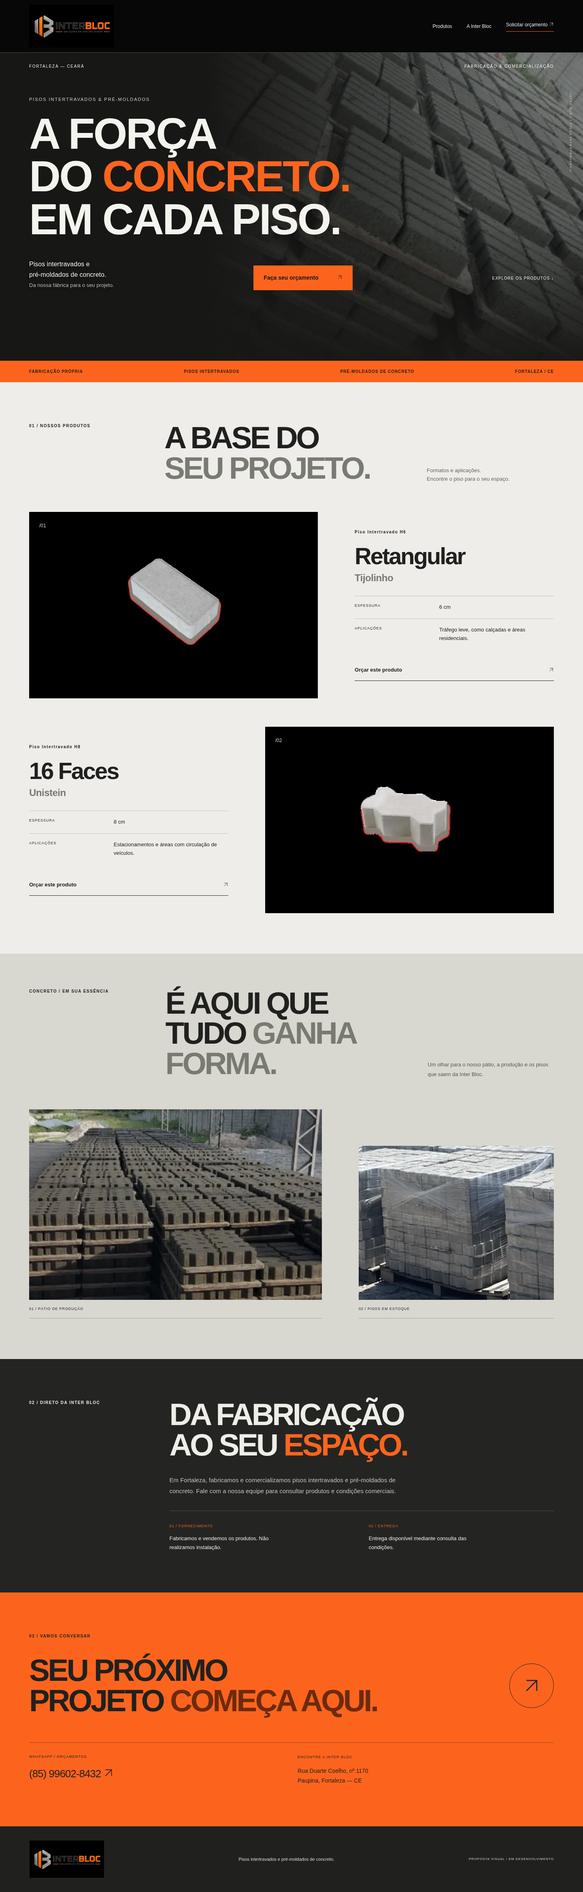
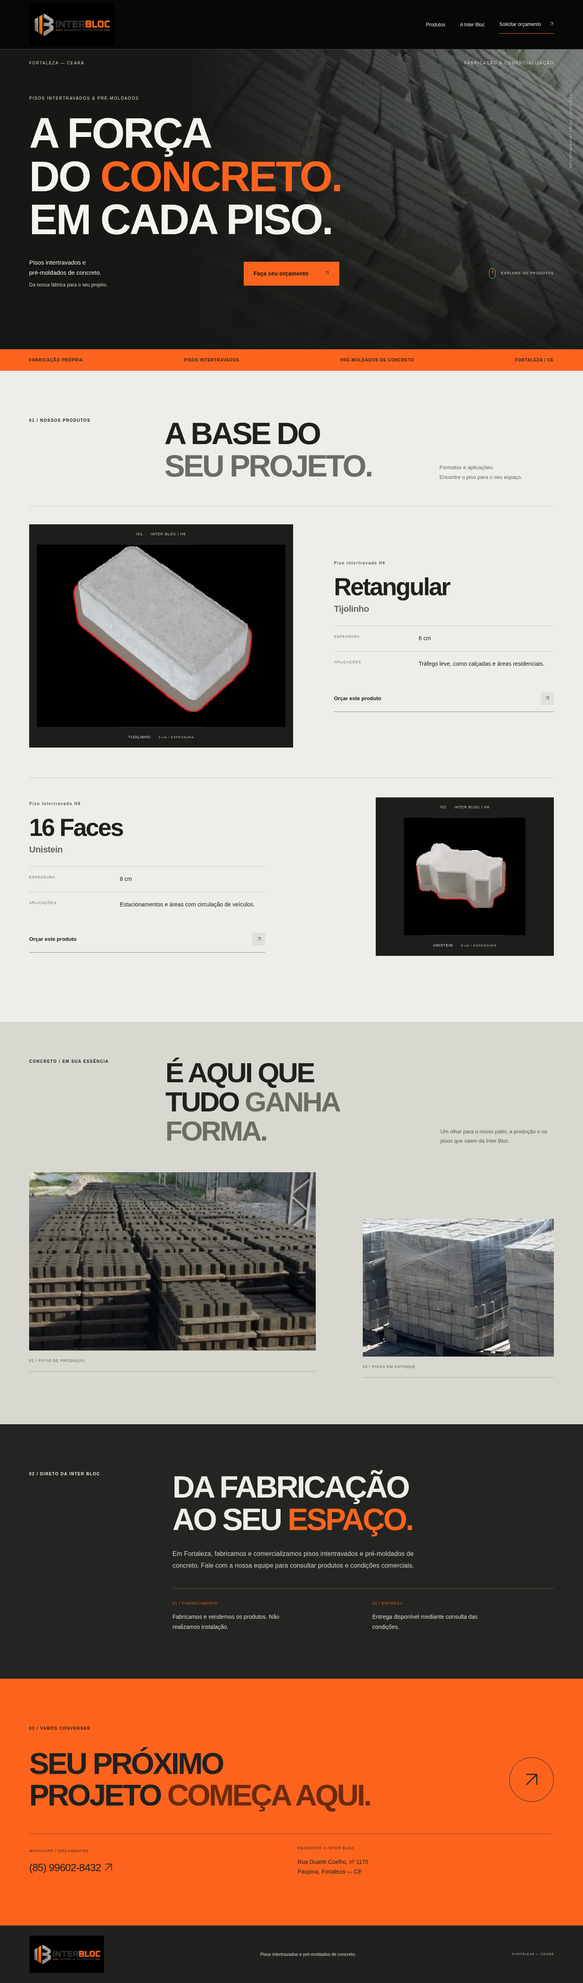
feat: refine Inter Bloc catalog and accessible scroll animations

Changed region(s): [[0.0, 0.0, 1.0, 1.0], [0.4688, 0.0, 0.5312, 0.0311]]

diff --git a/src/app/globals.css b/src/app/globals.css
@@ -63,10 +63,12 @@ h1 { font-family: Impact, 'Arial Narrow', Arial, sans-serif; font-size: clamp(64
 figcaption { padding: 16px 0; border-bottom: 1px solid #aaa99f; font-size: 9px; letter-spacing: .1em; }
 @media (prefers-reduced-motion: no-preference) {
   .hero-photo { animation: photo-enter 1.6s ease-out both; }
-  .hero-kicker,h1,.hero-bottom { animation: title-enter .9s ease-out both; }
-  h1 { animation-delay: .1s; }.hero-bottom { animation-delay: .2s; }
+  .hero-top,.hero-kicker,h1,.hero-description,.hero-bottom .button,.explore { animation: title-enter .85s cubic-bezier(.2,.65,.3,1) both; }
+  .hero-top { animation-delay: .12s; }.hero-kicker { animation-delay: .22s; }
+  h1 { animation-delay: .34s; }.hero-description { animation-delay: .52s; }
+  .hero-bottom .button { animation-delay: .68s; }.explore { animation-delay: .8s; }
   .product-photo,.factory-photo img { transition: transform .7s ease; }
-  .product-visual:hover .product-photo,.factory-photo:hover img { transform: scale(1.035); }
+
   @keyframes photo-enter { from { opacity: .4; transform: scale(1.06); } to { opacity: 1; transform: scale(1); } }
   @keyframes title-enter { from { opacity: 0; transform: translateY(20px); } to { opacity: 1; transform: translateY(0); } }
 }
@@ -79,4 +81,160 @@ figcaption { padding: 16px 0; border-bottom: 1px solid #aaa99f; font-size: 9px; 
   .hero-bottom .button { justify-self: start; }.product-visual { min-height: 350px; }.product-photo { height: 350px; padding: 25px; }.product-photo-h8 { width: 300px; }
   .factory-intro,.factory-grid { grid-template-columns: 1fr; }.factory-grid { margin-top: 40px; gap: 35px; }
   .factory-grid figure:nth-child(2) { padding-top: 0; }.factory-photo,.factory-wide .factory-photo { height: 360px; }
+}
+
+/* Editorial refinement: the existing sections and official assets are retained. */
+:root { --ease-out: cubic-bezier(.2,.65,.3,1); }
+html { scroll-padding-top: 32px; }
+.site-header { padding-block: 8px; }
+.site-header nav a { min-height: 44px; display: inline-flex; align-items: center; gap: 20px; position: relative; }
+.nav-quote { padding-bottom: 0; }
+.site-header nav a:not(.nav-quote)::after { content: ''; position: absolute; bottom: 5px; left: 0; width: 100%; height: 1px; background: var(--orange); transform: scaleX(0); transform-origin: left; }
+a:focus-visible { border-radius: 1px; }
+.site-header nav a:hover { text-decoration: none; }
+.hero { min-height: 740px; padding-bottom: 54px; }
+.hero-kicker { margin-top: clamp(44px,5vw,72px); color: #e3e1d8; font-size: 10px; }
+.hero h1 { margin-block: 26px 40px; font-size: clamp(64px,7.3vw,112px); line-height: 1.015; }
+.hero-art { inset-inline-start: 32%; }
+.hero-photo { filter: saturate(.65) brightness(.82); }
+.hero-art::after { background: linear-gradient(90deg,#171816 0%,#171816b5 28%,#17181630 80%),linear-gradient(0deg,#171816e8,transparent 65%); }
+.hero-top { color: #d9d7ce; }
+.hero-bottom { display: grid; grid-template-columns: 1fr auto 1fr; align-items: center; gap: 40px; margin-top: 0; }
+.hero-bottom p { font-size: 15px; line-height: 1.65; }
+.hero-bottom p span { color: #d5d4cb; font-size: 12px; display: inline-block; margin-top: 8px; }
+.button { min-height: 56px; padding: 19px 24px; gap: 38px; }
+.button:hover { text-decoration: none; }
+.explore { display: inline-flex; align-items: center; justify-self: end; gap: 14px; padding: 14px 0; min-height: 44px; font-size: 9px; color: #deddd4; }
+.scroll-indicator { display: block; width: 16px; height: 26px; border: 1px solid #a8a99e; border-radius: 12px; position: relative; }
+.scroll-indicator::after { content: ''; position: absolute; top: 5px; left: 6px; height: 6px; width: 2px; background: var(--orange); }
+.section-pad { padding-block: clamp(72px,8vw,120px); }
+.section-heading { grid-template-columns: 1fr 2.1fr .9fr; align-items: start; margin-bottom: 60px; }
+.section-heading>p:last-child { line-height: 1.8; }
+.eyebrow { font-size: 10px; line-height: 1.6; }
+h2 { line-height: 1.04; letter-spacing: -.055em; }
+h2 span { color: #6b6d64; }
+.product { grid-template-columns: 1.2fr 1fr; gap: clamp(40px,7vw,110px); padding-block: 44px; margin-top: 0; border-top: 1px solid #c7c8bf; }
+.product+.product { margin-top: 30px; }
+.product:nth-of-type(even) { grid-template-columns: 1fr 1.05fr; }
+.product-visual { background: #1d1e1b; min-height: 0; display: block; color: #d9d9cf; }
+.visual-heading,.visual-caption { display: flex; align-items: center; justify-content: space-between; gap: 20px; padding: 18px 22px; font-size: 9px; line-height: 1.5; letter-spacing: .1em; }
+.visual-heading { border-bottom: 1px solid #383a32; }
+.visual-caption { border-top: 1px solid #383a32; }
+.visual-caption span:first-child { color: #eee; text-transform: uppercase; }
+.visual-caption span:last-child { color: #c6c8bc; font-size: 8px; }
+.product-stage { height: 450px; display: flex; justify-content: center; align-items: center; overflow: hidden; background: #000; }
+.product-photo { display: block; max-width: none; padding: 0; object-fit: contain; flex-shrink: 0; }
+.product-photo-h6 { width: min(128%,768px); height: auto; }
+.product-photo-h8 { width: 300px; height: 300px; }
+.product-visual-h8 { max-width: 440px; justify-self: end; width: 100%; }
+.product-visual-h8 .product-stage { height: 290px; }
+.product-info { padding-block: 12px; }
+.product-info .eyebrow { color: #5b5f52; font-size: 10px; }
+.product-info h3 { margin-block: 20px 30px; font-size: clamp(42px,4.2vw,64px); }
+.product-info h3 span { margin-top: 14px; font-size: 22px; color: #686b61; }
+dl>div { grid-template-columns: .85fr 1.5fr; padding-block: 19px; border-color: #c7c8bf; }
+dt { font-size: 9px; color: #62665c; line-height: 1.7; }
+dd { font-size: 14px; line-height: 1.7; }
+.text-link { min-height: 54px; align-items: center; margin-top: 22px; padding: 16px 0; font-size: 13px; border-bottom-color: #84877b; }
+.text-link>span { display: grid; place-items: center; width: 32px; height: 32px; background: #e0e1d8; }
+.text-link:hover { text-decoration: none; border-bottom-color: #20211f; }
+.factory { padding-top: 90px; }
+.factory-intro { grid-template-columns: 1fr 2.1fr .9fr; }
+.factory-intro h2 { font-size: clamp(38px,4.8vw,72px); }
+.factory-grid { grid-template-columns: 1.2fr .8fr; gap: 9%; margin-top: 65px; align-items: start; }
+.factory-grid figure:nth-child(2) { padding-top: 115px; }
+.factory-wide .factory-photo { height: clamp(320px,32vw,440px); }
+.factory-photo { height: clamp(280px,24vw,340px); }
+.factory-photo img { object-position: center 55%; }
+figcaption { display: flex; align-items: center; min-height: 52px; padding: 17px 0; font-size: 9px; letter-spacing: .12em; color: #4b4f43; }
+.about { grid-template-columns: 1fr 3fr; gap: 40px; }
+.about h2 { max-width: 860px; }
+.about>div>p { font-size: 16px; max-width: 600px; margin: 32px 0 42px; color: #d0d1c5; }
+.conditions { gap: 45px; padding-top: 28px; border-color: #53564a; }
+.conditions p { max-width: 300px; line-height: 1.8; font-size: 14px; color: #dbdcd3; }
+.conditions span { font-size: 9px; margin-bottom: 12px; letter-spacing: .14em; }
+.contact-heading { align-items: center; gap: 35px; }
+.contact h2 { max-width: 980px; font-size: clamp(40px,5.15vw,78px); }
+.contact-details { margin-top: 56px; padding-top: 28px; }
+.contact-details a { display: block; width: fit-content; padding-block: 8px; min-height: 44px; }
+.contact-details a:hover { text-decoration: none; }
+.contact-details span { font-size: 9px; letter-spacing: .14em; }
+footer { padding-block: 25px; }
+footer>span { color: #c2c3b7; }
+
+/* No off-screen content is hidden. A one-shot entry starts only at intersection. */
+@media (prefers-reduced-motion: no-preference) {
+  .reveal-entered { animation: section-enter .72s var(--ease-out) backwards; }
+  .reveal-entered[data-delay="1"] { animation-delay: .08s; }
+  .reveal-entered[data-delay="2"] { animation-delay: .16s; }
+  @keyframes section-enter { from { opacity: 0; transform: translateY(18px); } to { opacity: 1; transform: translateY(0); } }
+  .button,.round-link,.text-link,.text-link>span,.site-header nav a::after,.arrow-icon { transition: color .25s ease,background .25s ease,border-color .25s ease,transform .35s var(--ease-out); }
+  .button:active { scale: .98; }
+  .round-link:active { scale: .96; }
+  @media (hover: hover) and (pointer: fine) {
+    .product-visual:not(.product-visual-h8):hover .product-photo { transform: scale(1.015); }
+    .factory-photo:hover img { transform: scale(1.025); }
+    .button:hover .arrow-icon,.text-link:hover .arrow-icon { transform: translate(2px,-2px); }
+    .round-link:hover .arrow-icon { transform: translate(3px,-3px); }
+    .site-header nav a:hover::after { transform: scaleX(1); }
+  }
+}
+.text-link:hover>span,.text-link:focus-visible>span { background: var(--orange); }
+.site-header nav a:focus-visible::after { transform: scaleX(1); }
+@media (max-width: 1000px) and (min-width: 801px) {
+  .hero-bottom { grid-template-columns: 1fr auto; }.explore { grid-column: 1 / -1; justify-self: start; }
+  .product { gap: 35px; }.section-heading,.factory-intro { grid-template-columns: .7fr 2fr; }
+  .section-heading>p:last-child,.factory-intro>p:last-child { grid-column: 2; }
+}
+@media (max-width: 800px) {
+  .site-header { padding-block: 5px 12px; gap: 0; }
+  .official-logo { width: 150px; height: 75px; }
+  .site-header nav { width: 100%; justify-content: space-between; gap: 12px; font-size: 11px; }
+  .site-header nav a { min-height: 44px; gap: 8px; }
+  .hero { min-height: 700px; padding-bottom: 40px; }
+  .hero-art { inset-inline-start: 0; }
+  .hero h1 { font-size: clamp(42px,10.4vw,82px); line-height: 1.045; margin-block: 26px 30px; }
+  .hero-kicker { margin-top: 50px; font-size: 8px; letter-spacing: .14em; }
+  .hero-bottom { grid-template-columns: 1fr; gap: 22px; }
+  .hero-bottom p { font-size: 14px; }
+  .hero-bottom p span { font-size: 11px; }
+  .hero-bottom .button,.explore { justify-self: start; }
+  .photo-caption { font-size: 7px; top: 54px; right: 10px; }
+  .section-pad { padding-block: 68px; }
+  .section-heading,.factory-intro { grid-template-columns: 1fr; gap: 24px; }
+  .section-heading { margin-bottom: 35px; }
+  h2 { font-size: clamp(36px,9vw,52px); }
+  .product,.product:nth-of-type(even) { grid-template-columns: minmax(0,1fr); gap: 28px; padding-block: 30px; margin-top: 0; }
+  .product+.product { margin-top: 26px; }
+  .product:nth-of-type(even) .product-visual { order: 0; }
+  .product-visual-h8 { max-width: 100%; justify-self: stretch; }
+  .product-stage { height: clamp(280px,72vw,450px); }.product-visual-h8 .product-stage { height: 245px; }
+  .product-photo-h6 { width: min(128%,768px); height: auto; }
+  .product-photo-h8 { width: min(300px,100%); height: auto; }
+  .visual-heading,.visual-caption { padding: 15px 17px; font-size: 8px; }
+  .visual-caption span:last-child { font-size: 7px; }
+  .product-info { padding-block: 0; }.product-info h3 { margin-block: 16px 24px; font-size: 44px; }
+  .product-info h3 span { font-size: 20px; }
+  .factory-grid { grid-template-columns: minmax(0,1fr); gap: 30px; margin-top: 38px; }
+  .factory-grid figure:nth-child(2) { padding: 0 0 0 12%; }
+  .factory-photo { height: 290px; }.factory-wide .factory-photo { height: 340px; }
+  .factory-intro h2 { font-size: clamp(36px,9vw,52px); }
+  .about { grid-template-columns: minmax(0,1fr); gap: 30px; }
+  .about>div>p { font-size: 15px; margin-block: 26px 32px; }
+  .conditions { grid-template-columns: 1fr; gap: 24px; }
+  .conditions p { max-width: 100%; }.contact .eyebrow { margin-bottom: 30px; }
+  .contact h2 { font-size: clamp(30px,7.5vw,48px); }
+  .contact-heading { gap: 15px; align-items: end; }.round-link { width: 52px; height: 52px; font-size: 30px; }
+  .contact-details { margin-top: 38px; gap: 24px; }
+  .contact-details a { font-size: 24px; }
+  footer { gap: 18px; padding-block: 26px; }footer .official-logo { width: 150px; height: 75px; }
+  footer p { max-width: 260px; line-height: 1.7; }footer>span { width: 100%; }
+}
+@media (max-width: 360px) {
+  .hero h1 { font-size: 11.2vw; }.hero-kicker { font-size: 7px; }
+  .site-header nav { gap: 7px; font-size: 10px; }.product-stage { height: 265px; }
+}
+@media (prefers-reduced-motion: reduce) {
+  .hero-photo,.hero-top,.hero-kicker,.hero h1,.hero-description,.hero-bottom .button,.explore,.reveal-entered { animation: none; }
+  .button,.round-link,.text-link,.text-link>span,.site-header nav a::after,.arrow-icon,.product-photo,.factory-photo img { transition: none; }
 }

diff --git a/src/app/page.tsx b/src/app/page.tsx
@@ -1,4 +1,5 @@
 import Image from "next/image";
+import { ScrollReveals } from "@/components/scroll-reveals";
 
 const whatsapp = "https://wa.me/5585996028432";
 const products = [
@@ -13,6 +14,7 @@ function Arrow() {
 export default function Home() {
   return (
     <>
+      <ScrollReveals />
       <a href="#conteudo" className="skip-link">Pular para o conteúdo</a>
       <header className="site-header">
         <a href="#inicio" className="brand" aria-label="Inter Bloc — início"><Image src="/images/logo-interbloc.png" alt="INTER BLOC — Soluções em pré-moldados" width={1600} height={800} className="official-logo" preload /></a>
@@ -23,19 +25,23 @@ export default function Home() {
           <div className="hero-top"><span>FORTALEZA — CEARÁ</span><span>FABRICAÇÃO & COMERCIALIZAÇÃO</span></div>
           <p className="hero-kicker">PISOS INTERTRAVADOS & PRÉ-MOLDADOS</p>
           <h1 id="hero-title">A FORÇA<br />DO <span>CONCRETO.</span><br />EM CADA PISO.</h1>
-          <div className="hero-bottom"><p>Pisos intertravados e<br />pré-moldados de concreto.<br /><span>Da nossa fábrica para o seu projeto.</span></p><a className="button" href={whatsapp}>Faça seu orçamento <span aria-hidden="true"><Arrow /></span></a><a className="explore" href="#produtos">EXPLORE OS PRODUTOS ↓</a></div>
+          <div className="hero-bottom"><p className="hero-description">Pisos intertravados e<br />pré-moldados de concreto.<br /><span>Da nossa fábrica para o seu projeto.</span></p><a className="button" href={whatsapp}>Faça seu orçamento <span aria-hidden="true"><Arrow /></span></a><a className="explore" href="#produtos"><span className="scroll-indicator" aria-hidden="true" /> EXPLORE OS PRODUTOS</a></div>
           <div className="hero-art"><Image src="/images/pilhas-pisos-intertravados.png" alt="Pilhas de pisos intertravados no pátio da Inter Bloc" fill sizes="(max-width: 800px) 100vw, 65vw" preload className="hero-photo" /><span className="photo-caption">INTER BLOC / PISOS INTERTRAVADOS</span></div>
         </section>
         <div className="service-strip"><span>FABRICAÇÃO PRÓPRIA</span><span>PISOS INTERTRAVADOS</span><span>PRÉ-MOLDADOS DE CONCRETO</span><span>FORTALEZA / CE</span></div>
         <section id="produtos" className="catalog section-pad" aria-labelledby="products-title">
-          <div className="section-heading"><p className="eyebrow">01 / NOSSOS PRODUTOS</p><h2 id="products-title">A BASE DO<br /><span>SEU PROJETO.</span></h2><p>Formatos e aplicações.<br />Encontre o piso para o seu espaço.</p></div>
-          {products.map((product) => <article id={product.id} className="product" key={product.id}><div className="product-visual"><Image src={product.image} alt={product.alt} width={product.width} height={product.height} sizes="(max-width: 800px) 90vw, 48vw" className={`product-photo product-photo-${product.id}`} /><span className="product-index">/{product.code}</span></div><div className="product-info"><p className="eyebrow">{product.title}</p><h3>{product.name}<span>{product.model}</span></h3><dl><div><dt>ESPESSURA</dt><dd>{product.thickness}</dd></div><div><dt>APLICAÇÕES</dt><dd>{product.use}</dd></div></dl><a className="text-link" href={`${whatsapp}?text=${encodeURIComponent(`Olá! Gostaria de solicitar um orçamento para ${product.title} — ${product.name}.`)}`}>Orçar este produto <span aria-hidden="true"><Arrow /></span></a></div></article>)}
+          <div className="section-heading"><p className="eyebrow">01 / NOSSOS PRODUTOS</p><h2 id="products-title" data-reveal>A BASE DO<br /><span>SEU PROJETO.</span></h2><p data-reveal data-delay="1">Formatos e aplicações.<br />Encontre o piso para o seu espaço.</p></div>
+          {products.map((product) => <article id={product.id} className="product" key={product.id}><div className={`product-visual product-visual-${product.id}`} data-reveal>
+              <div className="visual-heading"><span>/{product.code}</span><span>INTER BLOC / {product.id.toUpperCase()}</span></div>
+              <div className="product-stage"><Image src={product.image} alt={product.alt} width={product.width} height={product.height} sizes={product.id === "h8" ? "300px" : "(max-width: 800px) 110vw, 60vw"} className={`product-photo product-photo-${product.id}`} /></div>
+              <div className="visual-caption"><span>{product.model}</span><span>{product.thickness} / ESPESSURA</span></div>
+            </div><div className="product-info"><p className="eyebrow" data-reveal>{product.title}</p><h3 data-reveal data-delay="1">{product.name}<span>{product.model}</span></h3><dl><div data-reveal data-delay="1"><dt>ESPESSURA</dt><dd>{product.thickness}</dd></div><div data-reveal data-delay="2"><dt>APLICAÇÕES</dt><dd>{product.use}</dd></div></dl><a className="text-link" data-reveal data-delay="2" href={`${whatsapp}?text=${encodeURIComponent(`Olá! Gostaria de solicitar um orçamento para ${product.title} — ${product.name}.`)}`}>Orçar este produto <span aria-hidden="true"><Arrow /></span></a></div></article>)}
         </section>
-        <section className="factory section-pad" aria-labelledby="factory-title"><div className="factory-intro"><p className="eyebrow">CONCRETO / EM SUA ESSÊNCIA</p><h2 id="factory-title">É AQUI QUE<br />TUDO <span>GANHA FORMA.</span></h2><p>Um olhar para o nosso pátio, a produção e os pisos que saem da Inter Bloc.</p></div><div className="factory-grid"><figure className="factory-wide"><div className="factory-photo"><Image src="/images/patio-producao-intertravados.png" alt="Pátio de produção de pisos intertravados da Inter Bloc" fill sizes="(max-width: 800px) 90vw, 50vw" /></div><figcaption>01 / PÁTIO DE PRODUÇÃO</figcaption></figure><figure><div className="factory-photo"><Image src="/images/estoque-blocos-concreto.png" alt="Pisos de concreto empilhados e embalados em paletes" fill sizes="(max-width: 800px) 90vw, 30vw" /></div><figcaption>02 / PISOS EM ESTOQUE</figcaption></figure></div></section>
-        <section id="sobre" className="about section-pad" aria-labelledby="about-title"><p className="eyebrow">02 / DIRETO DA INTER BLOC</p><div><h2 id="about-title">DA FABRICAÇÃO<br />AO SEU <span>ESPAÇO.</span></h2><p>Em Fortaleza, fabricamos e comercializamos pisos intertravados e pré-moldados de concreto. Fale com a nossa equipe para consultar produtos e condições comerciais.</p><div className="conditions"><p><span>01 / FORNECIMENTO</span>Fabricamos e vendemos os produtos. Não realizamos instalação.</p><p><span>02 / ENTREGA</span>Entrega disponível mediante consulta das condições.</p></div></div></section>
-        <section id="contato" className="contact section-pad" aria-labelledby="contact-title"><p className="eyebrow">03 / VAMOS CONVERSAR</p><div className="contact-heading"><h2 id="contact-title">SEU PRÓXIMO<br />PROJETO <span>COMEÇA AQUI.</span></h2><a className="round-link" href={whatsapp} aria-label="Solicitar orçamento pelo WhatsApp"><Arrow /></a></div><div className="contact-details"><a href={whatsapp}><span>WHATSAPP / ORÇAMENTOS</span>(85) 99602-8432 <Arrow /></a><address><span>ENCONTRE A INTER BLOC</span>Rua Duarte Coelho, nº 1170<br />Paupina, Fortaleza — CE</address></div></section>
+        <section className="factory section-pad" aria-labelledby="factory-title"><div className="factory-intro"><p className="eyebrow">CONCRETO / EM SUA ESSÊNCIA</p><h2 id="factory-title" data-reveal>É AQUI QUE<br />TUDO <span>GANHA FORMA.</span></h2><p data-reveal data-delay="1">Um olhar para o nosso pátio, a produção e os pisos que saem da Inter Bloc.</p></div><div className="factory-grid"><figure className="factory-wide" data-reveal><div className="factory-photo"><Image src="/images/patio-producao-intertravados.png" alt="Pátio de produção de pisos intertravados da Inter Bloc" fill sizes="(max-width: 800px) 90vw, 50vw" /></div><figcaption>01 / PÁTIO DE PRODUÇÃO</figcaption></figure><figure data-reveal data-delay="1"><div className="factory-photo"><Image src="/images/estoque-blocos-concreto.png" alt="Pisos de concreto empilhados e embalados em paletes" fill sizes="(max-width: 800px) 90vw, 30vw" /></div><figcaption>02 / PISOS EM ESTOQUE</figcaption></figure></div></section>
+        <section id="sobre" className="about section-pad" aria-labelledby="about-title"><p className="eyebrow">02 / DIRETO DA INTER BLOC</p><div><h2 id="about-title" data-reveal>DA FABRICAÇÃO<br />AO SEU <span>ESPAÇO.</span></h2><p data-reveal data-delay="1">Em Fortaleza, fabricamos e comercializamos pisos intertravados e pré-moldados de concreto. Fale com a nossa equipe para consultar produtos e condições comerciais.</p><div className="conditions"><p data-reveal data-delay="1"><span>01 / FORNECIMENTO</span>Fabricamos e vendemos os produtos. Não realizamos instalação.</p><p data-reveal data-delay="2"><span>02 / ENTREGA</span>Entrega disponível mediante consulta das condições.</p></div></div></section>
+        <section id="contato" className="contact section-pad" aria-labelledby="contact-title"><p className="eyebrow">03 / VAMOS CONVERSAR</p><div className="contact-heading"><h2 id="contact-title" data-reveal>SEU PRÓXIMO<br />PROJETO <span>COMEÇA AQUI.</span></h2><a className="round-link" data-reveal data-delay="1" href={whatsapp} aria-label="Solicitar orçamento pelo WhatsApp"><Arrow /></a></div><div className="contact-details" data-reveal data-delay="2"><a href={whatsapp}><span>WHATSAPP / ORÇAMENTOS</span>(85) 99602-8432 <Arrow /></a><address><span>ENCONTRE A INTER BLOC</span>Rua Duarte Coelho, nº 1170<br />Paupina, Fortaleza — CE</address></div></section>
       </main>
-      <footer><a href="#inicio" className="brand" aria-label="Inter Bloc — início"><Image src="/images/logo-interbloc.png" alt="INTER BLOC" width={1600} height={800} className="official-logo footer-logo" /></a><p>Pisos intertravados e pré-moldados de concreto.</p><span>PROPOSTA VISUAL / EM DESENVOLVIMENTO</span></footer>
+      <footer><a href="#inicio" className="brand" aria-label="Inter Bloc — início"><Image src="/images/logo-interbloc.png" alt="INTER BLOC" width={1600} height={800} className="official-logo footer-logo" /></a><p>Pisos intertravados e pré-moldados de concreto.</p><span>FORTALEZA — CEARÁ</span></footer>
     </>
   );
 }

diff --git a/src/components/scroll-reveals.tsx b/src/components/scroll-reveals.tsx
@@ -1,0 +1,53 @@
+"use client";
+
+import { useEffect } from "react";
+
+/** Progressive enhancement: content is visible before JS and without an observer. */
+export function ScrollReveals() {
+  useEffect(() => {
+    const preference = window.matchMedia("(prefers-reduced-motion: reduce)");
+    if (!("IntersectionObserver" in window)) return;
+
+    const elements = Array.from(document.querySelectorAll<HTMLElement>("[data-reveal]"));
+    let observer: IntersectionObserver | undefined;
+
+    const configure = () => {
+      observer?.disconnect();
+      if (preference.matches) {
+        elements.forEach((element) => element.classList.remove("reveal-entered"));
+        return;
+      }
+
+      try {
+        observer = new IntersectionObserver(
+          (entries) => {
+            entries.forEach(({ target, isIntersecting }) => {
+              if (!isIntersecting) return;
+              const element = target as HTMLElement;
+              element.classList.add("reveal-entered");
+              element.dataset.revealed = "true";
+              observer?.unobserve(element);
+            });
+          },
+          { threshold: 0.12, rootMargin: "0px 0px -24px 0px" },
+        );
+        elements.forEach((element) => {
+          if (!element.dataset.revealed) observer?.observe(element);
+        });
+      } catch {
+        // Keep the server-rendered content visible if the browser API fails.
+        observer?.disconnect();
+      }
+    };
+
+    configure();
+    preference.addEventListener("change", configure);
+    return () => {
+      observer?.disconnect();
+      preference.removeEventListener("change", configure);
+      elements.forEach((element) => element.classList.remove("reveal-entered"));
+    };
+  }, []);
+
+  return null;
+}

diff --git a/docs/refinement-validation.md b/docs/refinement-validation.md
@@ -1,0 +1,31 @@
+# Validação do refinamento visual
+
+Validação feita em 14/10/2026 no Chromium local com Playwright, usando o build de produção. A validação não implica publicação do site ou aprovação do design.
+
+## Verificações
+
+- ESLint, TypeScript e build Next.js.
+- Navegação em desktop (1440 px) e celular por emulação com toque (390 px).
+- Responsividade adicional em 320, 768, 1024 e 1920 px: sem rolagem horizontal ou extravasamento do título principal.
+- Sequência de animação do hero e 25 elementos revelados por interseção durante a rolagem.
+- Fotografias carregadas, com texto alternativo e sem recortar as peças H6/H8 no catálogo.
+- Links internos válidos; navegação por toque; links de orçamento com número oficial e mensagem específica H6/H8.
+- Alvos principais de navegação e orçamento com pelo menos 44 px de altura.
+- Feedback de hover do botão principal e zoom discreto na fotografia de fabricação.
+- Movimento reduzido, inclusive mudança da preferência durante a sessão.
+- Conteúdo visível sem JavaScript, sem Intersection Observer e com falha simulada na criação do observer.
+- Axe-core: regras WCAG 2 A/AA e 2.1 AA executadas em desktop e mobile. Esse teste automatizado não substitui uma avaliação manual completa com leitores de tela.
+- Comparação dos 10 PNG oficiais com as versões do commit `056a80f`: arquivos preservados byte a byte.
+
+## Limites das fotografias
+
+H6 tem 768 × 768 px; H8 tem 300 × 300 px, incluindo o fundo preto. A peça H8 ocupa aproximadamente 222 × 161 px no arquivo: ampliar para preencher um painel grande perderia nitidez. O refinamento limita a imagem a 300 px e compacta o painel. Fotografias de maior resolução poderão melhorar a apresentação futura, sem necessidade de alterar o restante do catálogo.
+
+As fotos de pátio e estoque também têm resolução limitada (392 × 365 e 411 × 437 px); os arquivos originais não foram alterados. Não foram usadas fotografias genéricas nem criadas características técnicas adicionais.
+
+## Revisão visual
+
+- [Desktop — 1440 px](previews/desktop.png)
+- [Mobile — 390 px](previews/mobile.png)
+
+As capturas são estáticas; as animações e microinterações precisam ser vistas executando o site. Não foi feito deploy nem incorporação na branch `main`.

diff --git a/README.md b/README.md
@@ -46,3 +46,14 @@ As capturas da versão atual estão salvas no próprio repositório e podem ser 
 ![Inter Bloc — desktop](docs/previews/desktop.png)
 
 ![Inter Bloc — mobile](docs/previews/mobile.png)
+
+## Refinamento editorial e movimento
+
+A segunda etapa preserva a estrutura do site, os produtos e as fotografias oficiais. O hero tem uma sequência de entrada para foto, identificação, título, descrição e orçamento. Os títulos das seções, imagens, informações dos produtos e contato recebem revelações discretas por rolagem.
+
+- `src/components/scroll-reveals.tsx`: um único Intersection Observer observa os elementos `data-reveal`, anima cada um uma vez e deixa de observá-lo. Não há biblioteca de animação nem listener contínuo de scroll.
+- `src/app/globals.css`: keyframes, atrasos, hover, feedback de toque e regras responsivas. `prefers-reduced-motion` desativa as animações, inclusive se a preferência mudar durante a navegação.
+- O conteúdo é visível no HTML inicial; a animação é aplicada somente ao entrar na tela. Sem JavaScript ou sem Intersection Observer, textos, imagens e links continuam disponíveis.
+- O catálogo mantém as fotos originais: H6 recebe um enquadramento mais próximo; H8 fica limitado a 300 px e não recebe zoom no hover. Não há reconstrução, recoloração ou ampliação artificial dos arquivos.
+
+As capturas em `docs/previews/` correspondem ao refinamento atual. Consulte [a validação da etapa](docs/refinement-validation.md) para o escopo dos testes.
